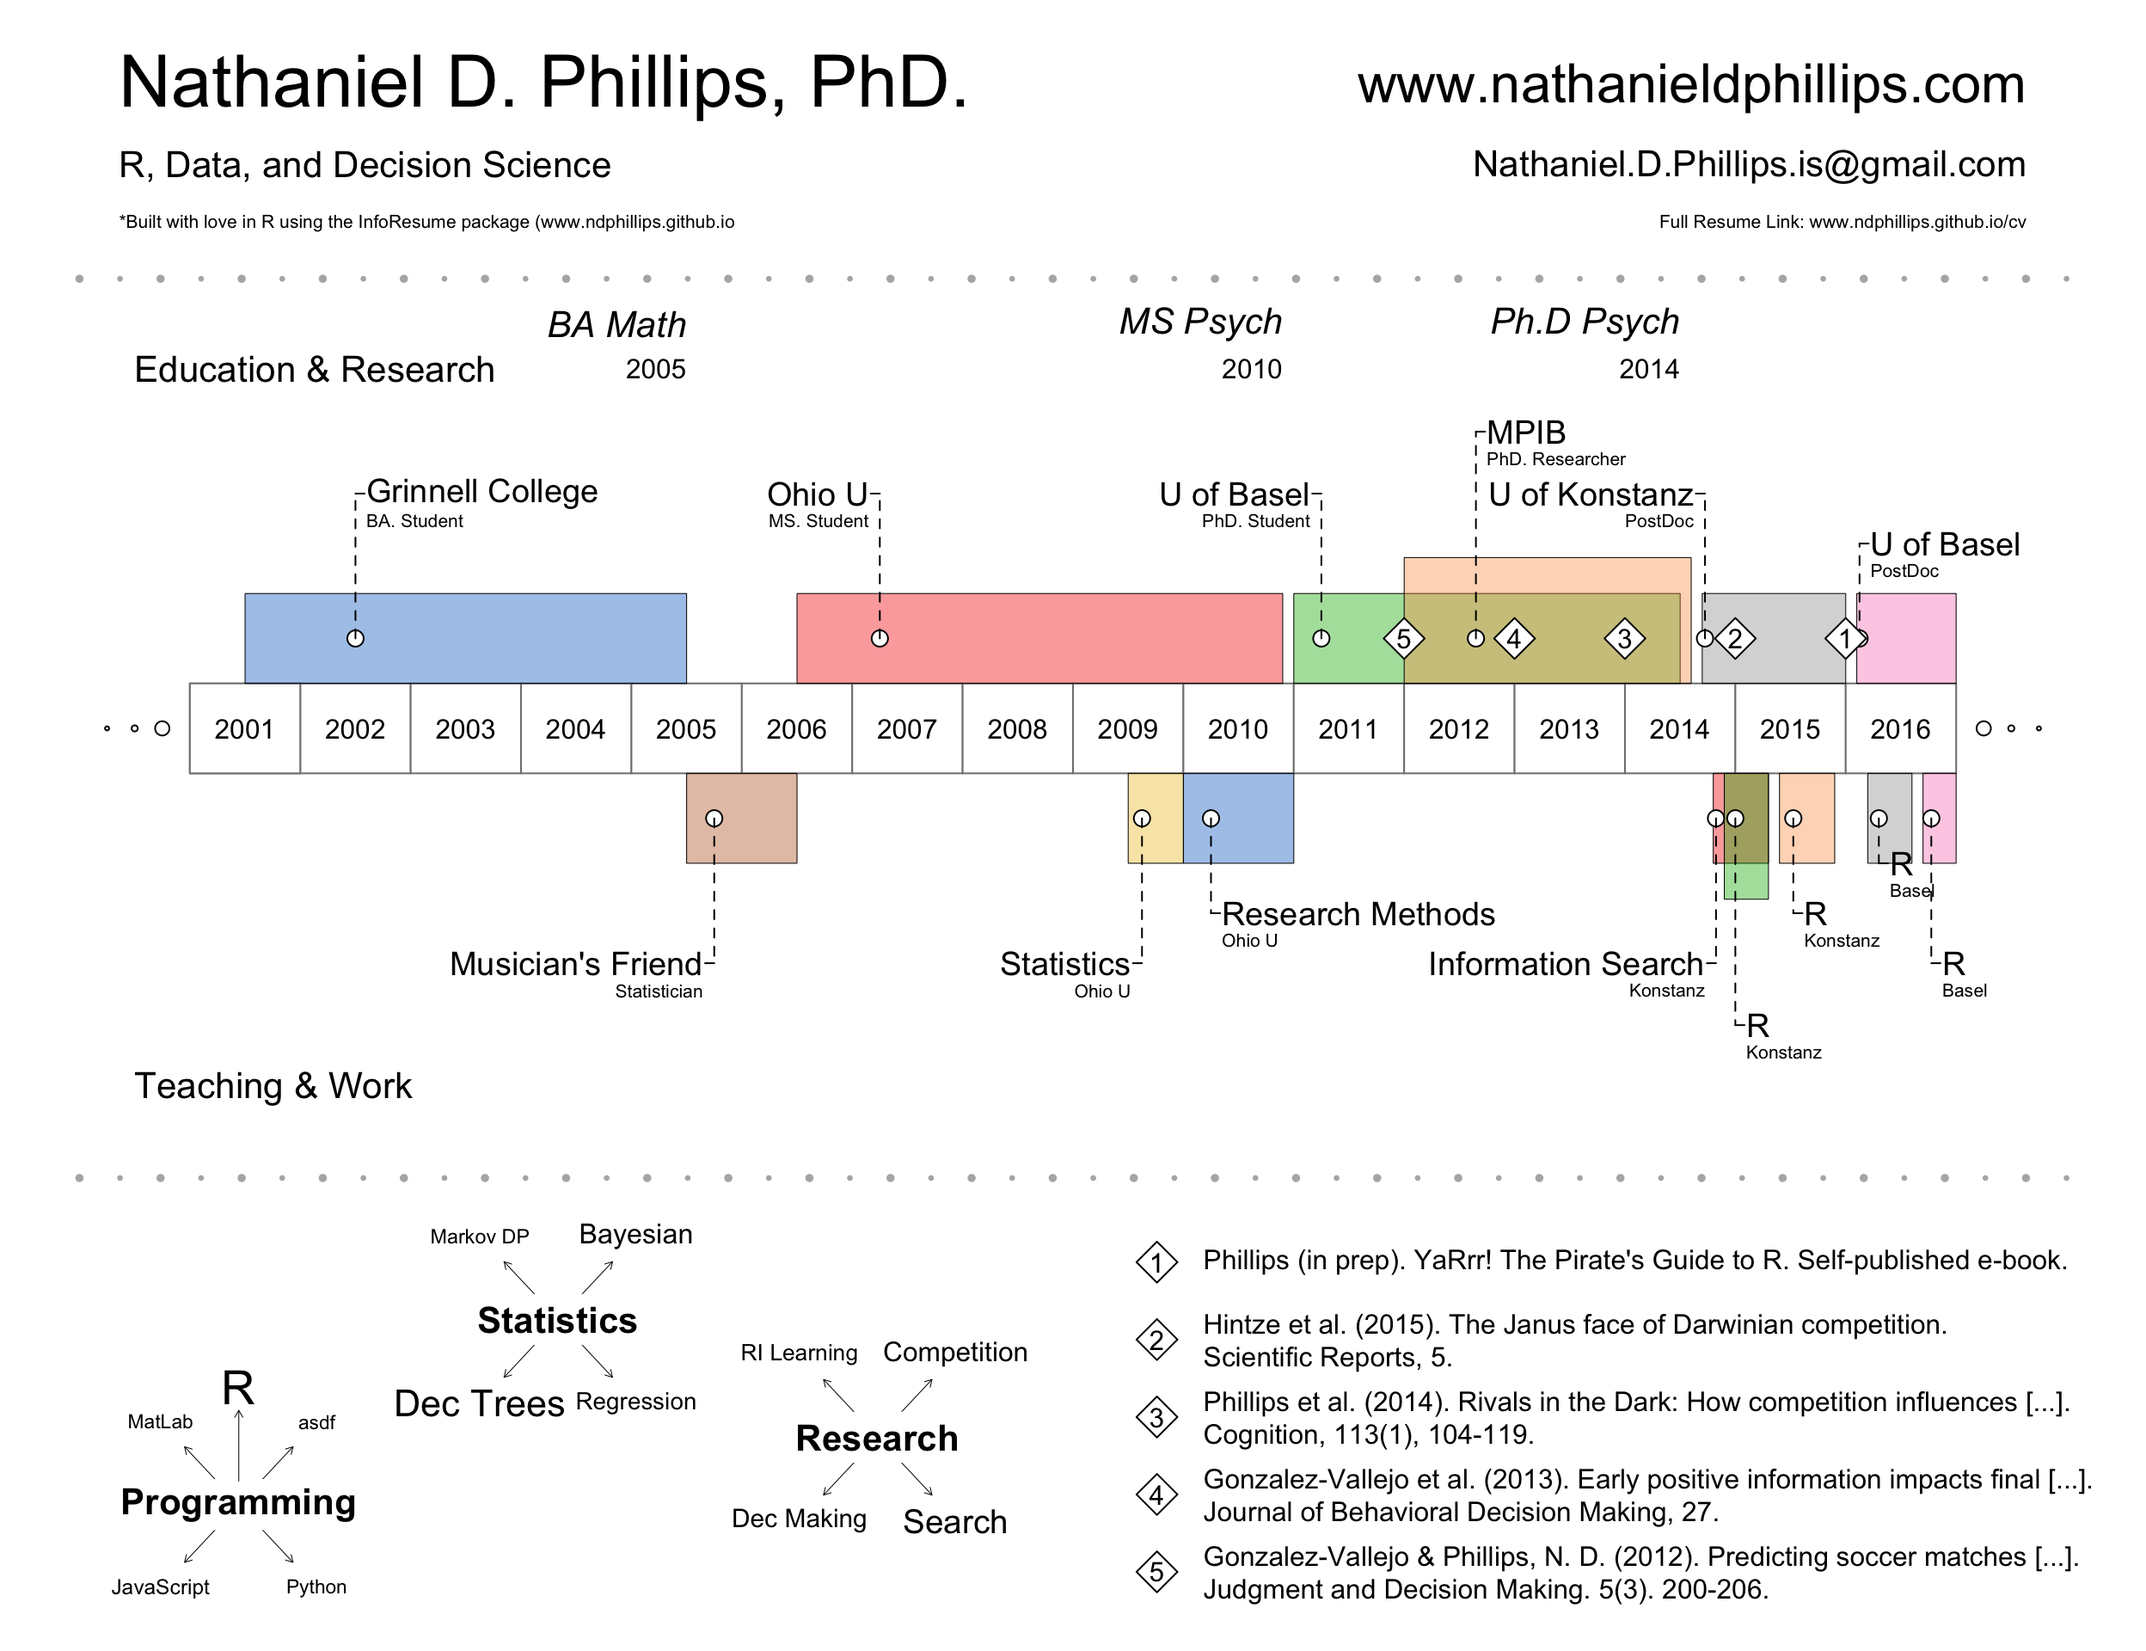
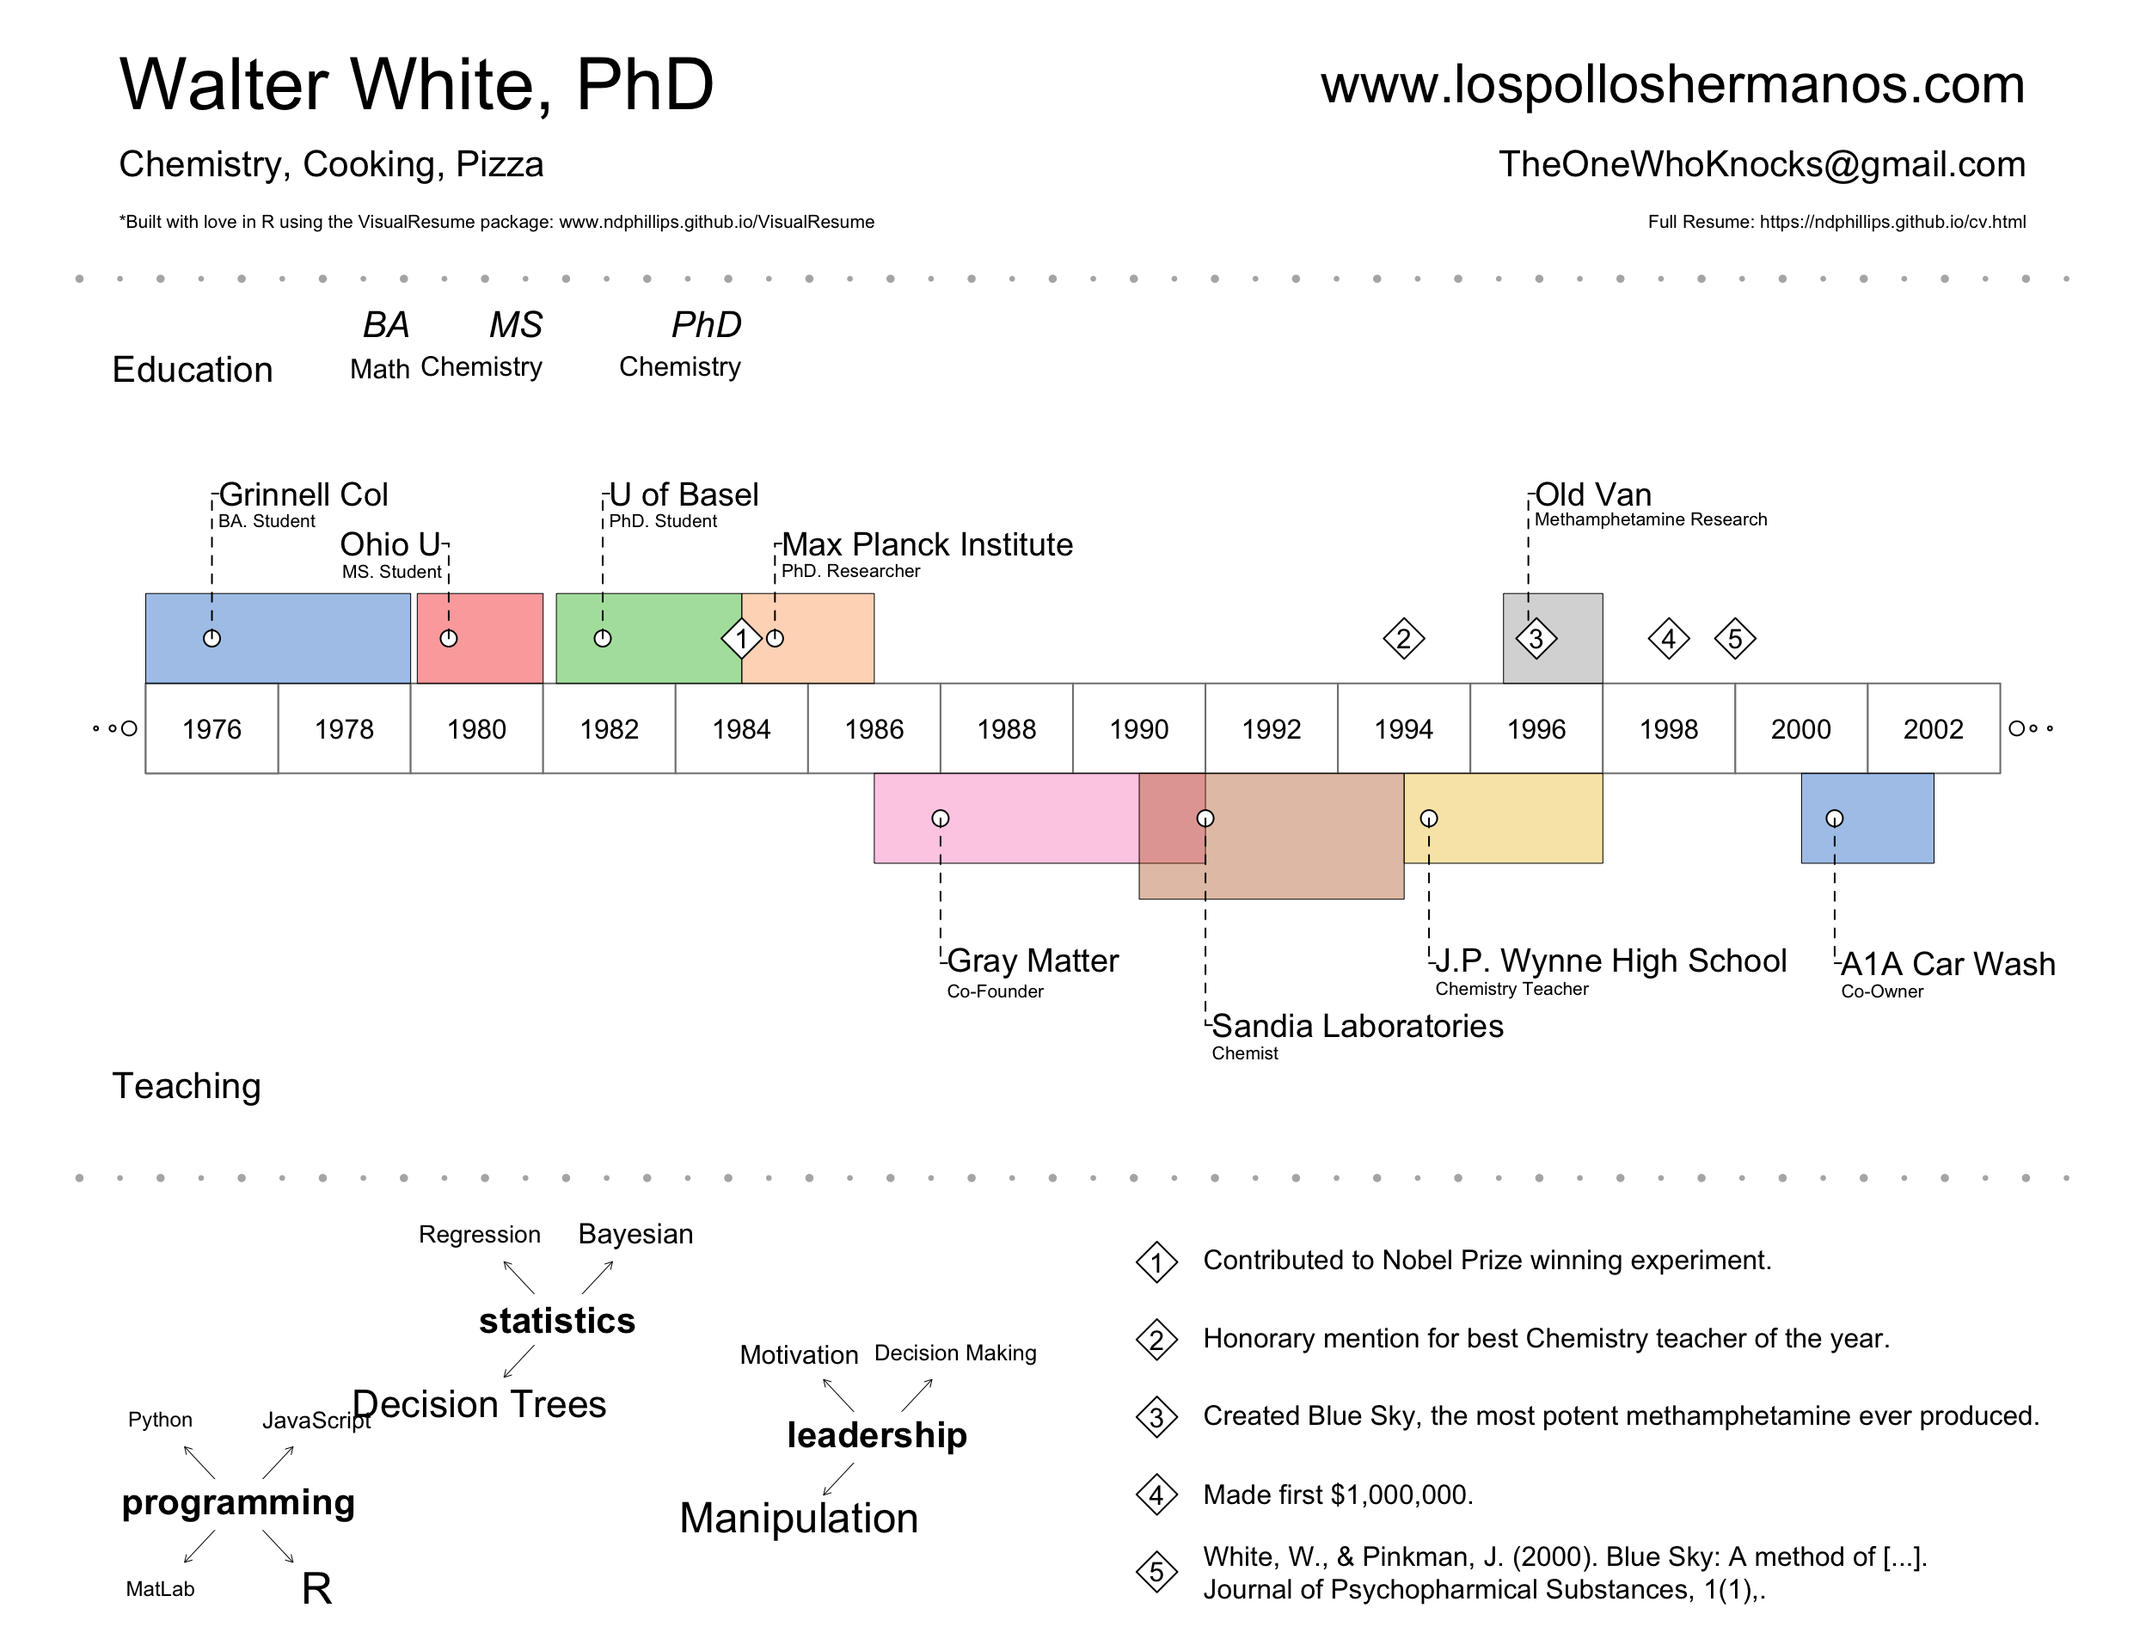
Updated visual resume page

diff --git a/VisualResume.html b/VisualResume.html
@@ -11,7 +11,7 @@
 
 
 
-<title>VisualResume</title>
+<title>VisualResume 0.1.0</title>
 
 <script src="site_libs/jquery-1.11.3/jquery.min.js"></script>
 <meta name="viewport" content="width=device-width, initial-scale=1" />
@@ -231,7 +231,7 @@ $(document).ready(function () {
   </a>
 </li>
 <li>
-  <a href="blog.html">
+  <a href="https://ndphillips.github.io/blog/">
     <span class="fa fa-rss"></span>
      
     Blog
@@ -276,7 +276,7 @@ $(document).ready(function () {
 
 
 
-<h1 class="title toc-ignore">VisualResume</h1>
+<h1 class="title toc-ignore">VisualResume 0.1.0</h1>
 
 </div>
 
@@ -287,64 +287,46 @@ $(document).ready(function () {
 <pre class="r"><code>#install.packages(&quot;devtools&quot;) # Only if you don&#39;t have the devtools package
 devtools::install_github(&quot;ndphillips/VisualResume&quot;)</code></pre>
 <p>To create a Visual Resume, you need to include several arguments that specify the content, size and location of the labels. The function will automatically format the resume to fit your specifications. Here are the main arguments:</p>
+<ul>
+<li><code>titles.left</code>, <code>titles.right</code>: Character vectors (length 3) indicating the header labels.</li>
+<li><code>titles.right.cex</code>, <code>titles.left.cex</code>: Numeric vectors (length 3) indicating the size of the header labels.</li>
+<li><code>timeline.labels</code>: Character vector (length 2) indicating labels for the top and bottom of the timeline</li>
+<li><code>timeline</code>: A dataframe with columns <code>title</code>, <code>sub</code>, <code>start</code>, <code>end</code>, <code>side</code>. The <code>title</code> and <code>sub</code> columns are vectors, <code>start</code> and <code>end</code> are integers, and <code>side</code> is binary (0 = bottom, 1 = top).</li>
+<li><code>milestones</code>: A dataframe with columns <code>title</code>, <code>sub</code>, <code>year</code>.</li>
+<li><code>events</code>: A dataframe with columns <code>title</code>, <code>year</code>.</li>
+<li><code>interests</code>: A list of character vectors specifying interests. The more often an interest occurs in a vector, the larger it will be displayed.</li>
+</ul>
+<p>For example, here are the inputs that created Walter White’s Visual Resume above:</p>
 <pre class="r"><code>VisualResume::VisualResume(
-  titles.left = c(&quot;Title 1&quot;, &quot;Title 2&quot;, &quot;Title 3&quot;),
-  titles.right = c(&quot;Title 1&quot;, &quot;Title 2&quot;, &quot;Title 3&quot;),
-  center.labels = c(&quot;Label 1&quot;, &quot;Label 2&quot;),
-  top = data.frame(title = c(&quot;A&quot;, &quot;B&quot;, &quot;C&quot;, &quot;D&quot;, &quot;E&quot;, &quot;F&quot;),
-                   sub = c(&quot;a&quot;, &quot;b&quot;, &quot;c&quot;, &quot;d&quot;, &quot;e&quot;, &quot;f&quot;),
-                   start = c(2001.5, 2006.5, 2011, 2012, 2014.7, 2016.1),
-                   end = c(2005.5, 2010.9, 2014.5, 2014.6, 2016, 2017)),
-  bottom = data.frame(title = c(&quot;G&quot;, &quot;H&quot;, &quot;I&quot;, &quot;J&quot;, &quot;K&quot;, &quot;L&quot;, &quot;M&quot;, &quot;N&quot;),
-                      sub = c(&quot;g&quot;, &quot;h&quot;, &quot;i&quot;, &quot;j&quot;, &quot;k&quot;, &quot;l&quot;, &quot;m&quot;, &quot;n&quot;),
-                      start = c(2005.5, 2009.5, 2010, 2014.8, 2014.8, 2015.4, 2016.1, 2016.7),
-                      end = c(2006.5, 2010, 2011, 2015.3, 2015.3, 2015.9, 2016.6, 2017)),
-  milestones = data.frame(title = c(&quot;M1&quot;, &quot;M2&quot;, &quot;M3&quot;),
-                          subtitle = c(&quot;2005&quot;, &quot;2010&quot;, &quot;2014&quot;),
-                          date = c(2005.5, 2010.9, 2014.5)),
-  events = data.frame(year = c(2016, 2015, 2014, 2013, 2012),
-                      title = c(&quot;EVENT 1&quot;,
-                                &quot;EVENT 2&quot;,
-                                &quot;EVENT 3&quot;,
-                                &quot;EVENT 4&quot;,
-                                &quot;EVENT 5&quot;)),
-  interests = list(&quot;AREA1&quot; = c(rep(&quot;A&quot;, 20), rep(&quot;B&quot;, 1), rep(&quot;C&quot;, 2), &quot;D&quot;, &quot;E&quot;),
-                   &quot;AREA2&quot; = c(rep(&quot;A&quot;, 10), rep(&quot;B&quot;, 5), rep(&quot;C&quot;, 3), rep(&quot;D&quot;)),
-                   &quot;AREA3&quot; = c(rep(&quot;A&quot;, 10), rep(&quot;B&quot;, 5), rep(&quot;C&quot;, 3), rep(&quot;D&quot;, 6)))
+titles.left = c(&quot;Walter White, PhD&quot;, &quot;Chemistry, Cooking, Pizza&quot;, &quot;*Built with love in R using the VisualResume package: www.ndphillips.github.io/VisualResume&quot;),
+titles.right = c(&quot;www.lospolloshermanos.com&quot;, &quot;TheOneWhoKnocks@gmail.com&quot;, &quot;Full Resume: https://ndphillips.github.io/cv.html&quot;),
+timeline.labels = c(&quot;Education&quot;, &quot;Teaching&quot;),
+timeline = data.frame(title = c(&quot;Grinnell Col&quot;, &quot;Ohio U&quot;, &quot;U of Basel&quot;, &quot;Max Planck Institute&quot;, &quot;Old Van&quot;, &quot;Gray Matter&quot;, &quot;Sandia Laboratories&quot;, &quot;J.P. Wynne High School&quot;, &quot;A1A Car Wash&quot;),
+                      sub = c(&quot;BA. Student&quot;, &quot;MS. Student&quot;, &quot;PhD. Student&quot;, &quot;PhD. Researcher&quot;, &quot;Methamphetamine Research&quot;, &quot;Co-Founder&quot;, &quot;Chemist&quot;, &quot;Chemistry Teacher&quot;, &quot;Co-Owner&quot;),
+                      start = c(1976, 1980.1, 1982.2, 1985, 1996.5, 1987, 1991, 1995, 2001),
+                      end = c(1980, 1982, 1985, 1987, 1998, 1992, 1995, 1998, 2003),
+                      side = c(1, 1, 1, 1, 1, 0, 0, 0, 0)),
+milestones = data.frame(title = c(&quot;BA&quot;, &quot;MS&quot;, &quot;PhD&quot;),
+                        sub = c(&quot;Math&quot;, &quot;Chemistry&quot;, &quot;Chemistry&quot;),
+                        year = c(1980, 1982, 1985)),
+events = data.frame(year = c(1985, 1995, 1997, 1999, 2000),
+                    title = c(&quot;Contributed to Nobel Prize winning experiment.&quot;,
+                              &quot;Honorary mention for best Chemistry teacher of the year.&quot;,
+                              &quot;Created Blue Sky, the most potent methamphetamine ever produced.&quot;,
+                              &quot;Made first $1,000,000.&quot;,
+                              &quot;White, W., &amp; Pinkman, J. (2000). Blue Sky: A method of [...].\nJournal of Psychopharmical Substances, 1(1),.&quot;)),
+interests = list(&quot;programming&quot; = c(rep(&quot;R&quot;, 10), rep(&quot;Python&quot;, 1), rep(&quot;JavaScript&quot;, 2), &quot;MatLab&quot;),
+                 &quot;statistics&quot; = c(rep(&quot;Decision Trees&quot;, 10), rep(&quot;Bayesian&quot;, 5), rep(&quot;Regression&quot;, 3)),
+                 &quot;leadership&quot; = c(rep(&quot;Motivation&quot;, 10), rep(&quot;Decision Making&quot;, 5), rep(&quot;Manipulation&quot;, 30))),
+year.steps = 2
 )</code></pre>
-<p><img src="VisualResume_files/figure-html/unnamed-chunk-3-1.png" width="1248" /></p>
 <div id="customising" class="section level3">
 <h3>Customising</h3>
-<p>If a plot does not come out the way you want it to, you can specify some plotting parameters in the <code>top</code> and <code>bottom</code> dataframes by including the columns <code>box.x0, box.x1, box.y1, box.y2</code>, which control the locations of the boxes, <code>point.x, point.y</code> which control the locations of the points, and <code>label.x, label.y, label.dir</code> which specify the locations and direction of the labels.</p>
-<p>For example, in the following plot, I’ll make some adjustments:</p>
-<pre class="r"><code>VisualResume::VisualResume(
-  titles.left = c(&quot;Title 1&quot;, &quot;Title 2&quot;, &quot;Title 3&quot;),
-  titles.right = c(&quot;Title 1&quot;, &quot;Title 2&quot;, &quot;Title 3&quot;),
-  center.labels = c(&quot;Label 1&quot;, &quot;Label 2&quot;),
-  top = data.frame(title = c(&quot;A&quot;, &quot;B&quot;, &quot;C&quot;, &quot;D&quot;, &quot;E&quot;, &quot;F&quot;),
-                   sub = c(&quot;a&quot;, &quot;b&quot;, &quot;c&quot;, &quot;d&quot;, &quot;e&quot;, &quot;f&quot;),
-                   start = c(2001.5, 2006.5, 2011, 2012, 2014.7, 2016.1),
-                   end = c(2005.5, 2010.9, 2014.5, 2014.6, 2016, 2017),
-                   point.x = c(2002, 2007, 2011.2, 2015.5, 2015.5, 2016.3)),
-  bottom = data.frame(title = c(&quot;G&quot;, &quot;H&quot;, &quot;I&quot;, &quot;J&quot;, &quot;K&quot;, &quot;L&quot;, &quot;M&quot;, &quot;N&quot;),
-                      sub = c(&quot;g&quot;, &quot;h&quot;, &quot;i&quot;, &quot;j&quot;, &quot;k&quot;, &quot;l&quot;, &quot;m&quot;, &quot;n&quot;),
-                      start = c(2005.5, 2009.5, 2010, 2014.8, 2014.8, 2015.4, 2016.1, 2016.7),
-                      end = c(2006.5, 2010, 2011, 2015.3, 2015.3, 2015.9, 2016.6, 2017),
-                      point.x = c(2006, 2009.7, 2010.2, 2014.8, 2015.1, 2015.5, 2016.3, 2016.8)),
-  milestones = data.frame(title = c(&quot;M1&quot;, &quot;M2&quot;, &quot;M3&quot;),
-                          subtitle = c(&quot;2005&quot;, &quot;2010&quot;, &quot;2014&quot;),
-                          date = c(2005.5, 2010.9, 2014.5)),
-  events = data.frame(year = c(2016, 2015, 2014, 2013, 2012),
-                      title = c(&quot;EVENT 1&quot;,
-                                &quot;EVENT 2&quot;,
-                                &quot;EVENT 3&quot;,
-                                &quot;EVENT 4&quot;,
-                                &quot;EVENT 5&quot;)),
-  interests = list(&quot;AREA1&quot; = c(rep(&quot;A&quot;, 20), rep(&quot;B&quot;, 1), rep(&quot;C&quot;, 2), &quot;D&quot;, &quot;E&quot;),
-                   &quot;AREA2&quot; = c(rep(&quot;A&quot;, 10), rep(&quot;B&quot;, 5), rep(&quot;C&quot;, 3), rep(&quot;D&quot;)),
-                   &quot;AREA3&quot; = c(rep(&quot;A&quot;, 10), rep(&quot;B&quot;, 5), rep(&quot;C&quot;, 3), rep(&quot;D&quot;, 6)))
-)</code></pre>
-<p><img src="VisualResume_files/figure-html/unnamed-chunk-4-1.png" width="1248" /></p>
+<p>If a plot does not come out the way you want it to, you can specify some plotting parameters in the <code>timeline</code> dataframe by including the columns <code>box.x0, box.x1, box.y1, box.y2</code>, which control the locations of the boxes, <code>point.x, point.y</code> which control the locations of the points, and <code>label.x, label.y, label.dir</code> which specify the locations and direction of the labels. See the help menu for <code>VisualResume</code> for additional details.</p>
+</div>
+<div id="bug-reports" class="section level3">
+<h3>Bug-reports</h3>
+<p>This package is very young and likely contains many bugs and room for improvement. Please submit bug reports and feature requests at <a href="https://github.com/ndphillips/VisualResume/issues" class="uri">https://github.com/ndphillips/VisualResume/issues</a></p>
 </div>
 
 

diff --git a/cv.html b/cv.html
@@ -231,7 +231,7 @@ $(document).ready(function () {
   </a>
 </li>
 <li>
-  <a href="blog.html">
+  <a href="https://ndphillips.github.io/blog/">
     <span class="fa fa-rss"></span>
      
     Blog
@@ -281,9 +281,8 @@ $(document).ready(function () {
 </div>
 
 
-<p>Here is my visual resume, built entirely from scratch in R!</p>
-<p><img src="media/PhillipsInfographicResume.jpg" width="900px" style="display: block; margin: auto;" /></p>
-<p>You can create your own visual resume using the <a href="https://ndphillips.shinyapps.io/Visual_Resume/">visual resume Shiny app</a>. I plan to release the code as an R package shortly.</p>
+<p>Here is my visual resume built using my <code>VisualResume</code> R package (see <a href="VisualResume.html">Visual Resume R Package</a>).</p>
+<p><img src="cv_files/figure-html/unnamed-chunk-1-1.png" width="1248" /></p>
 <div id="download" class="section level1">
 <h1>Download</h1>
 <p>You can download my resume and CV with the following links:</p>

diff --git a/FFTrees.html b/FFTrees.html
@@ -231,7 +231,7 @@ $(document).ready(function () {
   </a>
 </li>
 <li>
-  <a href="blog.html">
+  <a href="https://ndphillips.github.io/blog/">
     <span class="fa fa-rss"></span>
      
     Blog

diff --git a/about.html b/about.html
@@ -231,7 +231,7 @@ $(document).ready(function () {
   </a>
 </li>
 <li>
-  <a href="blog.html">
+  <a href="https://ndphillips.github.io/blog/">
     <span class="fa fa-rss"></span>
      
     Blog

diff --git a/index.html b/index.html
@@ -231,7 +231,7 @@ $(document).ready(function () {
   </a>
 </li>
 <li>
-  <a href="blog.html">
+  <a href="https://ndphillips.github.io/blog/">
     <span class="fa fa-rss"></span>
      
     Blog

diff --git a/packages.html b/packages.html
@@ -231,7 +231,7 @@ $(document).ready(function () {
   </a>
 </li>
 <li>
-  <a href="blog.html">
+  <a href="https://ndphillips.github.io/blog/">
     <span class="fa fa-rss"></span>
      
     Blog

diff --git a/piratesguide.html b/piratesguide.html
@@ -231,7 +231,7 @@ $(document).ready(function () {
   </a>
 </li>
 <li>
-  <a href="blog.html">
+  <a href="https://ndphillips.github.io/blog/">
     <span class="fa fa-rss"></span>
      
     Blog

diff --git a/tutorials.html b/tutorials.html
@@ -231,7 +231,7 @@ $(document).ready(function () {
   </a>
 </li>
 <li>
-  <a href="blog.html">
+  <a href="https://ndphillips.github.io/blog/">
     <span class="fa fa-rss"></span>
      
     Blog

diff --git a/yarrr.html b/yarrr.html
@@ -231,7 +231,7 @@ $(document).ready(function () {
   </a>
 </li>
 <li>
-  <a href="blog.html">
+  <a href="https://ndphillips.github.io/blog/">
     <span class="fa fa-rss"></span>
      
     Blog
